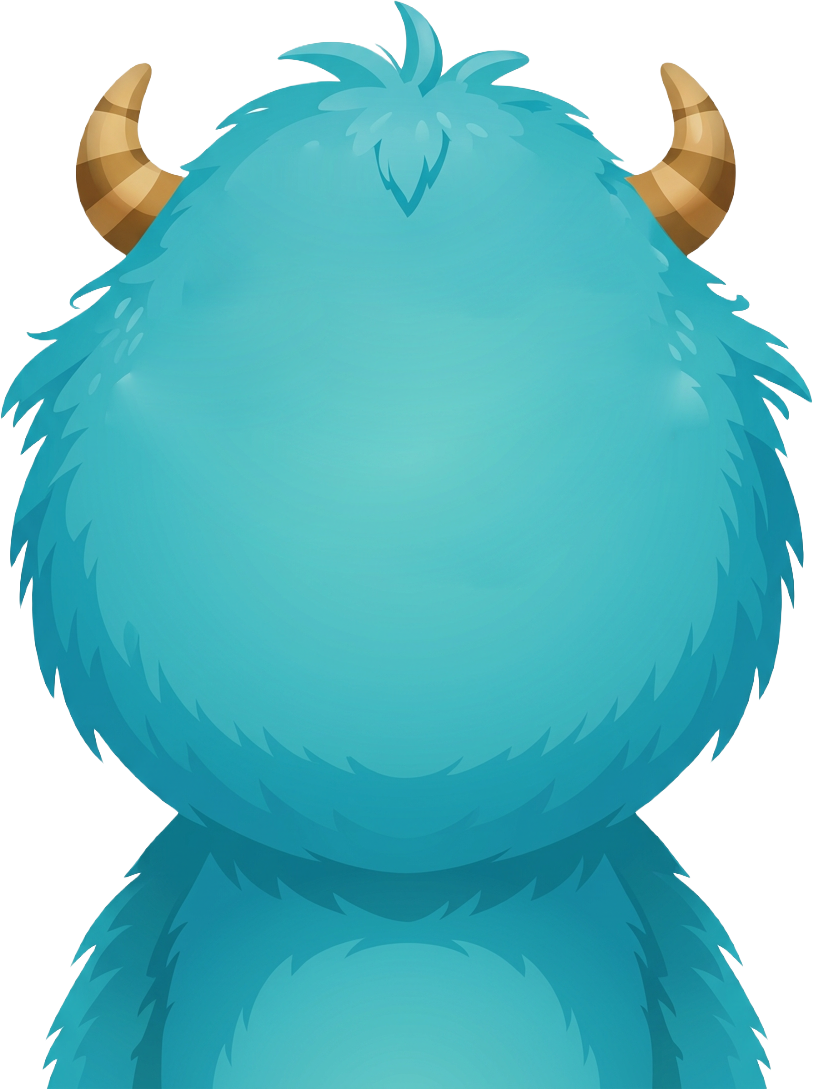
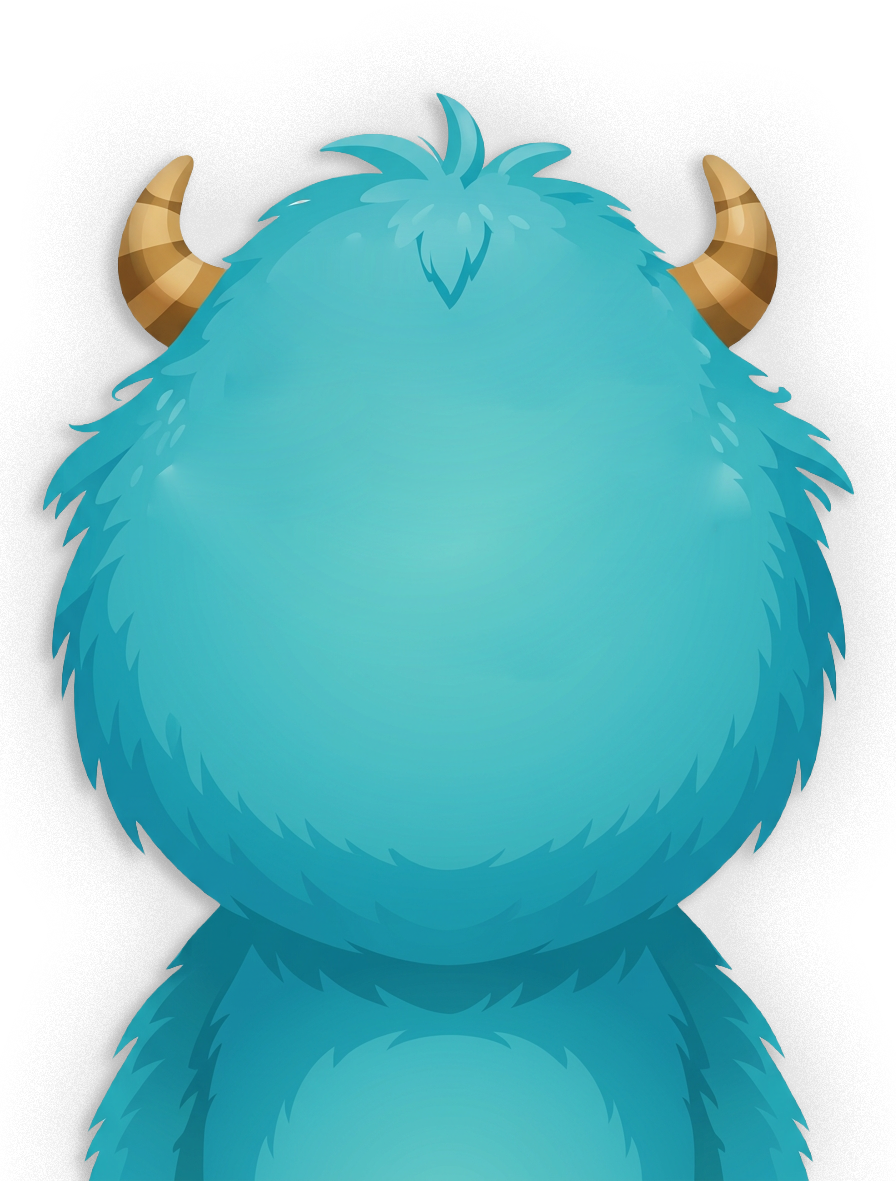
Mejora animaciones del monstruo y actualiza body.
Oscilación más sutil, bounce en happy, rotación en error, y body escalable.

diff --git a/js/classes/Monster.js b/js/classes/Monster.js
@@ -19,8 +19,14 @@ class Monster {
     this.rotation = 0;
     this.visible = true;
 
-    /** Ancho del body en píxeles de diseño (ocupa el ancho de la ventana). */
-    this.displaySize = DESIGN_WIDTH;
+    /**
+     * Tamaño del body.
+     * displaySize = ancho dibujado en px de diseño.
+     * Subí este valor si el body se ve chico (ej. 1180, 1250).
+     * bodyOffsetY baja/sube el body (positivo = más abajo).
+     */
+    this.displaySize = DESIGN_WIDTH * 1.12;
+    this.bodyOffsetY = 40;
 
     /**
      * Layout relativo al body.
@@ -87,6 +93,15 @@ class Monster {
 
     /** 'wait' = boca abierta esperando; 'chew' = masticando tras comer. */
     this._eatingMode = null;
+
+    /** Tiempo global para oscilaciones continuas. */
+    this._animTime = 0;
+
+    /**
+     * Offsets de animación (no pisan scale/rotation de tweens de entrada).
+     * Se aplican solo en draw().
+     */
+    this._fx = { scale: 1, y: 0, rotation: 0 };
   }
 
   /**
@@ -94,12 +109,15 @@ class Monster {
    * @returns {{ x: number, y: number }}
    */
   getMouthPosition() {
+    const scaleMul = this.scale * this._fx.scale;
     return {
       x: this.x,
       y:
         this.y +
+        this.bodyOffsetY +
+        this._fx.y +
         (this._bodyDrawH * this.layout.mouthY + this.layout.faceOffsetY) *
-          this.scale,
+          scaleMul,
     };
   }
 
@@ -107,7 +125,7 @@ class Monster {
    * @returns {number}
    */
   getMouthAcceptRadius() {
-    return this._bodyDrawW * 0.22 * this.scale;
+    return this._bodyDrawW * 0.22 * this.scale * this._fx.scale;
   }
 
   /**
@@ -135,7 +153,6 @@ class Monster {
     this._pendingReaction = null;
     this._onExpressionComplete = null;
     this._eatingMode = 'wait';
-    this.rotation = 0;
     this.setState(MONSTER_STATES.EATING);
   }
 
@@ -175,10 +192,12 @@ class Monster {
    * @param {number} dt
    */
   update(dt) {
+    this._animTime += dt;
     const handler = this._handlers[this.state];
     if (handler && handler.update) {
       handler.update(dt);
     }
+    this._updateMotionFx();
   }
 
   draw() {
@@ -187,9 +206,9 @@ class Monster {
     }
 
     push();
-    translate(this.x, this.y);
-    rotate(this.rotation);
-    scale(this.scale);
+    translate(this.x, this.y + this.bodyOffsetY + this._fx.y);
+    rotate(this.rotation + this._fx.rotation);
+    scale(this.scale * this._fx.scale);
     drawingContext.globalAlpha = this.alpha;
     imageMode(CENTER);
 
@@ -205,6 +224,43 @@ class Monster {
   // ---------------------------------------------------------------------------
   // Updates
   // ---------------------------------------------------------------------------
+
+  /**
+   * Calcula oscilaciones visuales según estado.
+   * - Idle: pulso sutil de escala
+   * - Happy: bounce vertical + escala
+   * - Full/error: rotación sutil
+   */
+  _updateMotionFx() {
+    const pulse = 1 + Math.sin(this._animTime * 2.0) * 0.008;
+    let scaleFx = pulse;
+    let yFx = 0;
+    let rotFx = 0;
+
+    if (this.state === MONSTER_STATES.HAPPY) {
+      // Bounce alegre: sube/baja y late un poco más
+      const bounce = Math.sin(this._stateTimer * 11);
+      yFx = bounce * -22;
+      scaleFx = 1 + Math.abs(bounce) * 0.07;
+    } else if (
+      this.state === MONSTER_STATES.FULL ||
+      this.state === MONSTER_STATES.SAD
+    ) {
+      // Error / disgusto / triste: meneo de rotación sutil
+      rotFx = Math.sin(this._stateTimer * 14) * 0.06;
+      scaleFx = pulse;
+    } else if (
+      this.state === MONSTER_STATES.EATING &&
+      this._eatingMode === 'chew'
+    ) {
+      rotFx = Math.sin(this._stateTimer * 16) * 0.03;
+      scaleFx = pulse;
+    }
+
+    this._fx.scale = scaleFx;
+    this._fx.y = yFx;
+    this._fx.rotation = rotFx;
+  }
 
   _updateIdle(dt) {
     this._blinkTimer -= dt;
@@ -248,17 +304,14 @@ class Monster {
   _updateEating(dt) {
     // Esperando comida: boca abierta fija, sin avanzar de estado.
     if (this._eatingMode === 'wait') {
-      this.rotation = 0;
       return;
     }
 
     this._stateTimer += dt;
     this._chewFrame = Math.floor(this._stateTimer / 0.12);
-    this.rotation = Math.sin(this._stateTimer * 16) * 0.03;
 
     // 0–0.22s boca abierta, luego masticar hasta ~0.95s
     if (this._stateTimer >= 0.95) {
-      this.rotation = 0;
       this._eatingMode = null;
       const next = this._pendingReaction || MONSTER_STATES.IDLE;
       this._pendingReaction = null;